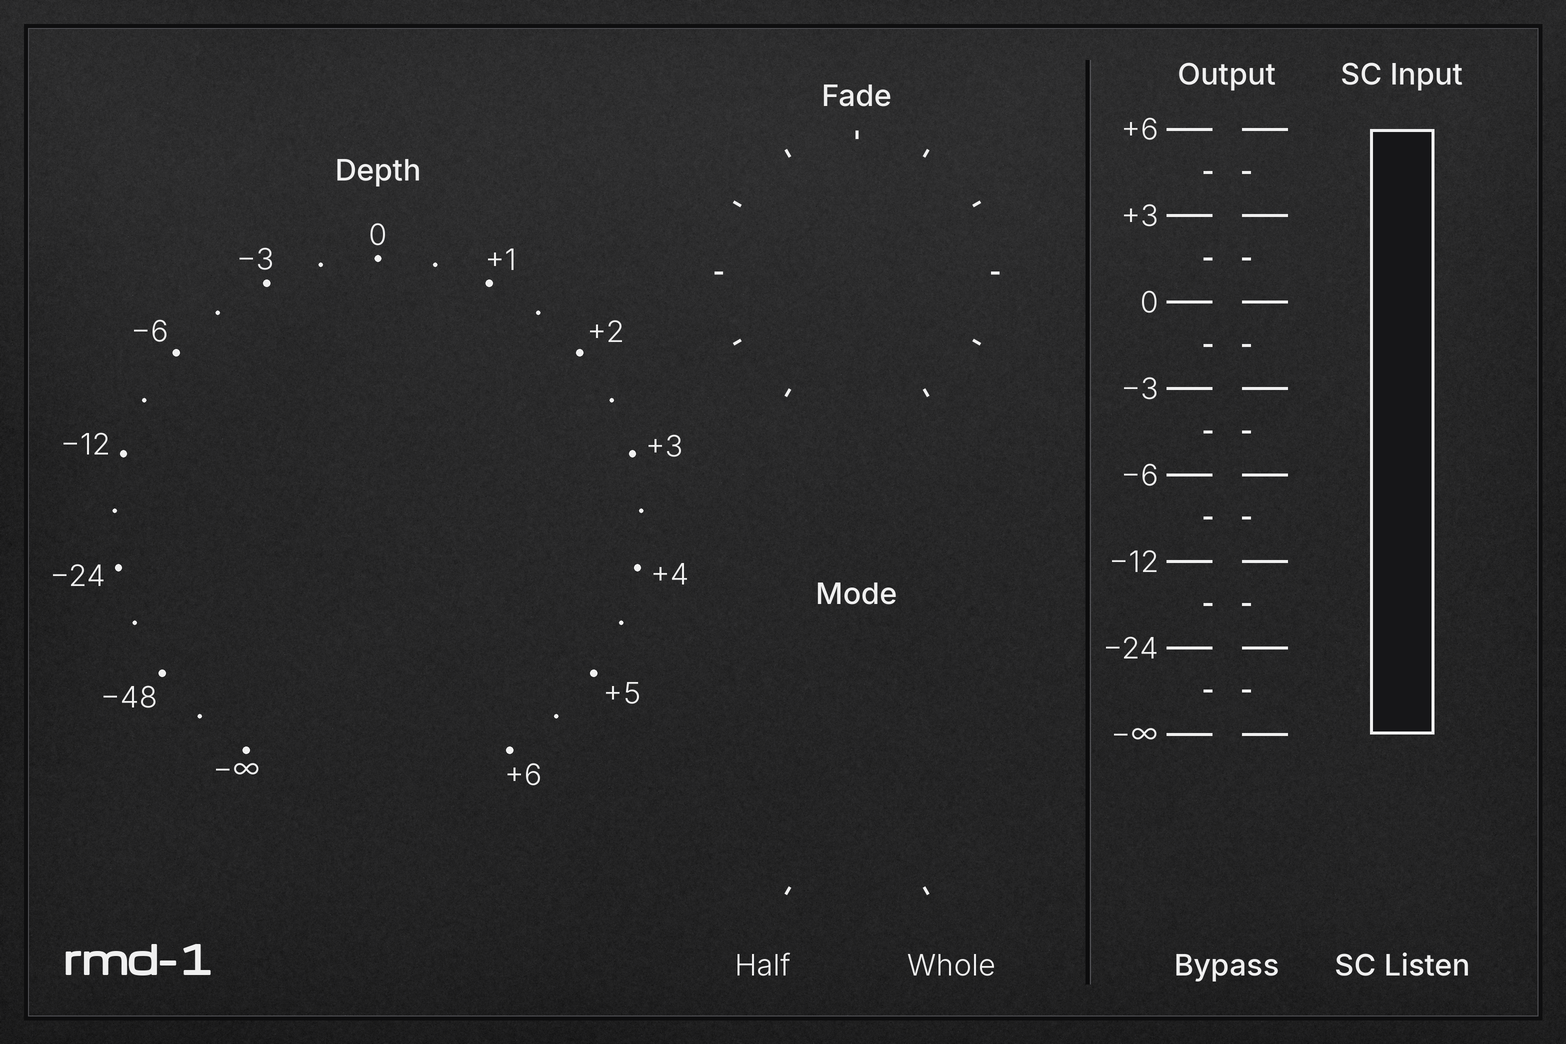
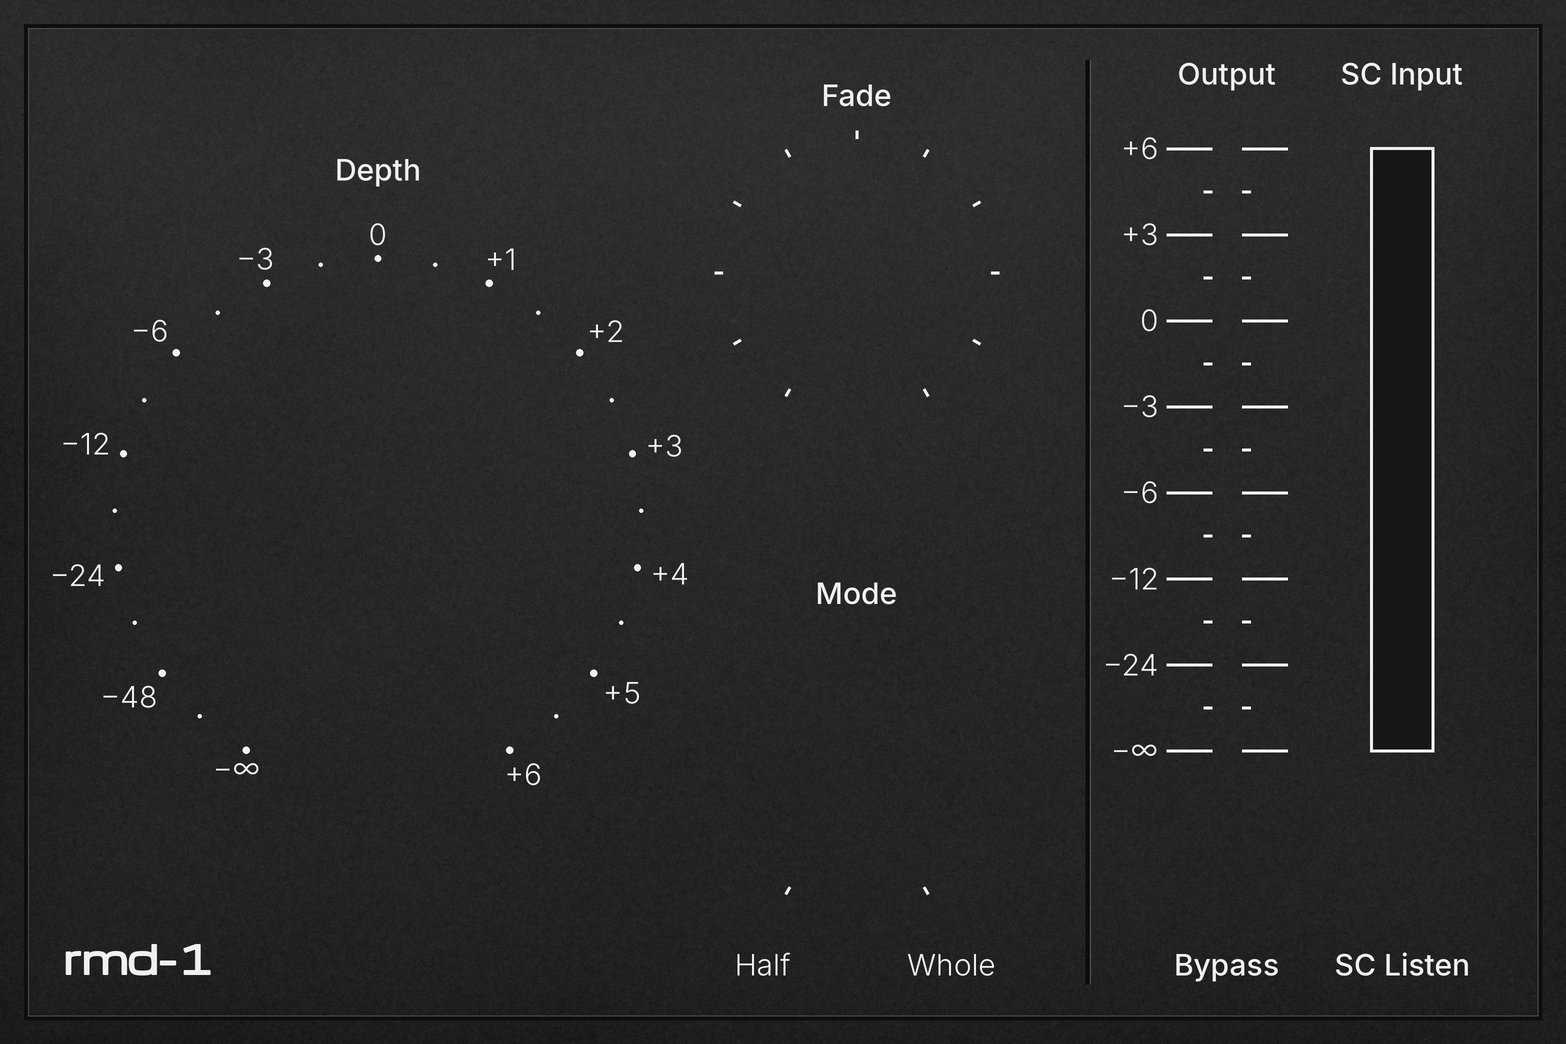
Fader y vumetro: +6 y tope del vumetro sobre la linea 1 (fondo en 750,5; barritas de 10 px retina) [skip ci]
Claude-Session: https://claude.ai/code/session_01LmYTuHAKQSU8qhR6nNkVAi

diff --git a/Source/PluginEditor.cpp b/Source/PluginEditor.cpp
@@ -12,7 +12,8 @@ namespace
     constexpr float kDefaultScale = 321.0f / 996.0f;               // tamano de la ventana: 321 de alto (y 523 de ancho)
     constexpr float kArtW = 1518.0f, kArtH = 996.0f;              // arte ya recortado
     constexpr int   kCrop = 24;                                   // el recorte de la ventana: se corta por la linea oscura del marco
-    constexpr int   kFaderX = 1227, kTop = 129, kBottom = 734;       // pista del fader: de y=129 (+6 dB) a y=742 (-inf); a 43.5 del valor de abajo, igual que las perillas
+    constexpr int   kFaderX = 1227;
+    constexpr float kTop = 148.5f, kBottom = 750.5f;       // pista del fader: de y=129 (+6 dB) a y=742 (-inf); a 43.5 del valor de abajo, igual que las perillas
     constexpr float kBtnCy = 879.75f, kBtnHit = 38.0f;               // centro vertical de los botones y radio (cuadrado) donde responden al clic
     constexpr int   kAtlasCols = 12;                                  // un cuadro del puntero cada 2 grados (151 cuadros, -150..150)
     const Colour kText (240, 240, 240);    // texto sobre el fondo oscuro
@@ -20,11 +21,11 @@ namespace
     // zona (en pixeles logicos) que ocupa el vumetro: se repinta solo eso cuando cambia
     Rectangle<int> meterArea (float kScale)
     {
-        return { roundToInt (1346.0f * kScale), roundToInt (105.0f * kScale), roundToInt (64.0f * kScale) + 2, roundToInt (644.0f * kScale) + 4 };
+        return { roundToInt (1346.0f * kScale), roundToInt (124.0f * kScale), roundToInt (64.0f * kScale) + 2, roundToInt (641.0f * kScale) + 4 };
     }
 
-    constexpr float kMeterPitch = (float) (kBottom - 4 - (kTop + 4)) / 77.0f;   // alto de cada barrita del vumetro (77 en total = 11 por cada tramo de la escala del fader, 10 pixeles retina cada una); la de arriba queda separada del marco igual que la de abajo
-    constexpr float kValueBase = 797.0f;                                  // linea de base de los valores bajo el fader y el vumetro (misma distancia que el valor bajo Depth)
+    constexpr float kMeterPitch = (kBottom - 2.5f - (kTop + 2.5f)) / 77.0f;   // alto de cada barrita del vumetro (77 en total = 11 por cada tramo de la escala del fader, 10 pixeles retina cada una); la de arriba queda separada del marco igual que la de abajo
+    constexpr float kValueBase = 813.5f;                                  // linea de base de los valores bajo el fader y el vumetro (misma distancia que el valor bajo Depth)
 
     Image img (const void* d, int n) { return ImageCache::getFromMemory (d, n); }
 
@@ -343,16 +344,16 @@ namespace
             if (! valido) return;
             att.setValueAsCompleteGesture (par.convertFrom0to1 (jlimit (0.0f, 1.0f, par.getValueForText (txt))));
         }
-        bool hitTest (int x, int y) override { const auto p = designOf (x, y); return p.y <= (float) kBottom + 24.0f; }
-        float yOf (float n) const { return (float) kBottom - n * (float) (kBottom - kTop); }
+        bool hitTest (int x, int y) override { const auto p = designOf (x, y); return p.y <= kBottom + 24.0f; }
+        float yOf (float n) const { return kBottom - n * (kBottom - kTop); }
         void paint (Graphics& g) override
         {
             beginDesign (g);
             const int cy = roundToInt (yOf (norm()));
-            g.drawImageAt (slot, kFaderX - slot.getWidth() / 2, kTop - 25);            // recorrido
+            g.drawImageAt (slot, kFaderX - slot.getWidth() / 2, (int) (kTop - 0.5f) - 25);            // recorrido
             g.drawImageAt (capImg, kFaderX - capImg.getWidth() / 2, cy - capImg.getHeight() / 2);   // perilla
         }
-        void setFromY (float y) { setNorm (((float) kBottom - (y - offset)) / (float) (kBottom - kTop)); }
+        void setFromY (float y) { setNorm ((kBottom - (y - offset)) / (kBottom - kTop)); }
         void mouseDown (const MouseEvent& e) override
         {
             if (altReset (e)) return;
@@ -405,8 +406,8 @@ namespace
 struct ValueOverlay : Component
 {
     explicit ValueOverlay (Typeface::Ptr t) : tf (t) { setInterceptsMouseClicks (false, false); }
-    static Rectangle<float> meterZone() { return { 1373.0f, 121.0f, 60.0f, 613.0f }; }   // en unidades de diseno
-    static Rectangle<float> peakTextZone() { return { 1342.0f, 768.0f, 120.0f, 40.0f }; }   // el valor numerico de abajo del vumetro
+    static Rectangle<float> meterZone() { return { 1373.0f, 140.5f, 60.0f, 612.0f }; }   // en unidades de diseno
+    static Rectangle<float> peakTextZone() { return { 1342.0f, 785.0f, 120.0f, 40.0f }; }   // el valor numerico de abajo del vumetro
 
     void paint (Graphics& g) override
     {
@@ -419,7 +420,7 @@ struct ValueOverlay : Component
         }
     }
     String faderValText = "0.00 dB", peakValText = "-inf dB";
-    Rectangle<int> valuesArea() const { return { roundToInt ((1143.0f - (float) kCrop) * scale), roundToInt ((761.0f - (float) kCrop) * scale), roundToInt (330.0f * scale), roundToInt (50.0f * scale) }; }
+    Rectangle<int> valuesArea() const { return { roundToInt ((1143.0f - (float) kCrop) * scale), roundToInt ((778.0f - (float) kCrop) * scale), roundToInt (330.0f * scale), roundToInt (50.0f * scale) }; }
     float peakDb = -100.0f; float scale = kDefaultScale; Typeface::Ptr tf;
 };
 
@@ -527,7 +528,7 @@ void PhantomAsymEditor::paint (Graphics& g)
     auto snap = [this] (float yDesign) { const float k = scale * 2.0f; return std::round ((yDesign - (float) kCrop) * k) / k + (float) kCrop; };
     const int lit = roundToInt (dbToFaderNorm (meterShown) * (float) kSeg);
     const bool blue = proc.apvts.getRawParameterValue ("listen")->load() >= 0.5f;   // SC Listen prendido: barritas azules
-    const float yBase = (float) kBottom - 4.0f;
+    const float yBase = kBottom - 2.5f;
     for (int i = 0; i < kSeg; ++i)
     {
         const float yTop = snap (yBase - (float) (i + 1) * kPitch + kPitch * 0.2f), yBot = snap (yBase - (float) i * kPitch - kPitch * 0.2f);

diff --git a/UI_definitiva/generadores/bg_gen.py b/UI_definitiva/generadores/bg_gen.py
@@ -30,7 +30,7 @@ def box(x0,y0,x1,y1,fill=FILL,ell=False):
     (d.ellipse if ell else d.rectangle)(sc(x0,y0,x1,y1),outline=G,width=3*S,fill=fill)
 def txt(x,y,t,f,a='mm',c=G): d.text((x*S,y*S),t,font=f,fill=c,anchor=a)
 d.rectangle(sc(24,24,W-24,H-24),outline=(14,14,15),width=4*S); d.rectangle(sc(28,28,W-28,H-28),outline=(78,78,82),width=1*S)
-pt=24+M; db=pt+652; fb=734   # fb = fondo de la escala del fader (-inf)
+pt=148.5; db=pt+652; fb=750.5   # pt = linea 1 (octavo de la altura);  fb = fondo de la escala del fader (-inf)
 A13=[-150+25*i for i in range(13)]   # Depth: recorrido de 300 grados, 13 marcas grandes cada 25
 A11=[-150+30*i for i in range(11)]   # Fade: recorrido de 300 grados, el 20 % y el 80 % quedan justo a 180 grados entre si (a -90 y +90)
 def aa_ticks(cx,cy,r0,r1,angles,w=3.0,K=16):   # ticks radiales con borde suave exacto (se dibujan 16x mas grandes y se reducen), asi todos pesan igual
@@ -44,7 +44,7 @@ def aa_ticks(cx,cy,r0,r1,angles,w=3.0,K=16):   # ticks radiales con borde suave 
 aa_ticks(857,273,125+9,125+9+8.5,A11)   # Fade: 11 ticks (0..100 %, de a 10, cada 30 grados), 8,5 de largo y 3 de ancho
 d.line(sc(divX,60,divX,H-60),fill=(12,12,13),width=4*S); d.line(sc(divX+3,60,divX+3,H-60),fill=(84,84,88),width=1*S)
 fx=1227
-box(1370,pt,1434,fb)
+box(1370,pt-1.5,1434,fb+1.5)   # el marco del vumetro centrado en la marca de +6 / -inf (3 de trazo, igual que las marcas)
 for i in range(8):   # marcas del fader a ambos lados (+6, +3, 0, -3, -6, -12, -24, -inf)
     y=pt+(fb-pt)*i/7
     d.line(sc(fx-60.5,y,fx-15,y),fill=G,width=int(3*S)); d.line(sc(fx+15,y,fx+60.5,y),fill=G,width=int(3*S))   # largas, iguales a los dos lados (a la izquierda con el numero), desde el recorrido
@@ -61,7 +61,7 @@ for i,t in enumerate(['+6','+3','0','\u22123','\u22126','\u221212','\u221224','\
 def ctitle(x,t,ymid):   # titulo con la tinta centrada en ymid (vertical) y en x (horizontal)
     bb=d.textbbox((0,0),t,font=L,anchor='ls'); base=ymid-(bb[1]+bb[3])/(2*S); bx=_ink(t,L,'ms')
     d.text((x*S-(bx[0]+bx[2])/2,base*S),t,font=L,fill=G,anchor='ms'); print(t,'tinta',round(base+bb[1]/S,1),'->',round(base+bb[3]/S,1))
-YM=(24+pt)/2   # centro entre el borde interno de la ventana (y=24) y el tope de la perilla / fader
+YM=76.5   # centro entre el borde interno de la ventana (y=24) y el tope de la perilla / fader
 ctitle(378,'Depth',173)
 ctitle(857,'Fade',95.5)   # 41,5 sobre la perilla (igual que Mode)
 ctitle(857,'Mode',593.5)
